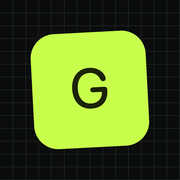
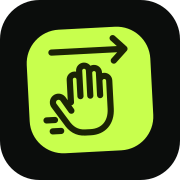
Replace letter badge with hand-swipe branding

diff --git a/tests/e2e/landing-page.spec.ts b/tests/e2e/landing-page.spec.ts
@@ -9,6 +9,11 @@ test("the landing page explains controls without requesting the camera", async (
     };
   });
   await page.goto("/");
+  const brand = page.getByRole("link", { name: "Gesture Reader home", exact: true });
+  const mark = brand.locator(".brand-mark img");
+  await expect(mark).toHaveAttribute("src", "/hand-swipe.svg");
+  await expect(brand.locator(".brand-mark")).not.toHaveText("G");
+  await expect.poll(() => mark.evaluate((image: HTMLImageElement) => image.complete && image.naturalWidth > 0)).toBe(true);
   await expect(page.getByRole("button", { name: "Choose your first PDF", exact: true })).toBeEnabled();
   await expect(page.getByText("Right → next page. Left → previous page.", { exact: true })).toBeVisible();
   await expect(page.getByText("Hold still to lock, then swipe right → next or left → previous.", { exact: true })).toBeVisible();
@@ -17,8 +22,10 @@ test("the landing page explains controls without requesting the camera", async (
   for (const width of [1440, 390, 280]) {
     await page.setViewportSize({ width, height: 900 });
     await expect(page.getByRole("button", { name: "Choose your first PDF", exact: true })).toBeVisible();
+    await expect(mark).toBeVisible();
     expect(await page.evaluate(() => document.documentElement.scrollWidth <= window.innerWidth)).toBe(true);
     await page.screenshot({ path: test.info().outputPath(`landing-${width}.png`), fullPage: true });
   }
+  await brand.locator(".brand-mark").screenshot({ path: test.info().outputPath("hand-swipe-mark.png") });
   expect(await page.evaluate(() => Reflect.get(window, "__landingCameraRequests"))).toBe(0);
 });

diff --git a/components/gesture-reader/GestureReaderApp.tsx b/components/gesture-reader/GestureReaderApp.tsx
@@ -928,7 +928,11 @@ export function GestureReaderApp() {
 
       <header className="library-header">
         <Link className="brand" href="/" aria-label="Gesture Reader home">
-          <span className="brand-mark">G</span>
+          <span className="brand-mark" aria-hidden="true">
+            {/* Static, local SVG keeps the swipe mark crisp without animation. */}
+            {/* eslint-disable-next-line @next/next/no-img-element */}
+            <img src="/hand-swipe.svg" width="34" height="34" alt="" />
+          </span>
           <span>
             <strong>Gesture Reader</strong>
             <small>Private, hands-free PDFs</small>

diff --git a/app/globals.css b/app/globals.css
@@ -219,10 +219,13 @@ select:focus-visible {
   border-radius: 0.8rem 0.8rem 0.8rem 0.18rem;
   background: var(--lime);
   color: var(--lime-ink);
-  font-family: var(--mono);
-  font-size: 1.15rem;
-  font-weight: 900;
   transform: rotate(-3deg);
+}
+
+.brand-mark img {
+  display: block;
+  width: 2.125rem;
+  height: 2.125rem;
 }
 
 .brand > span:last-child {
